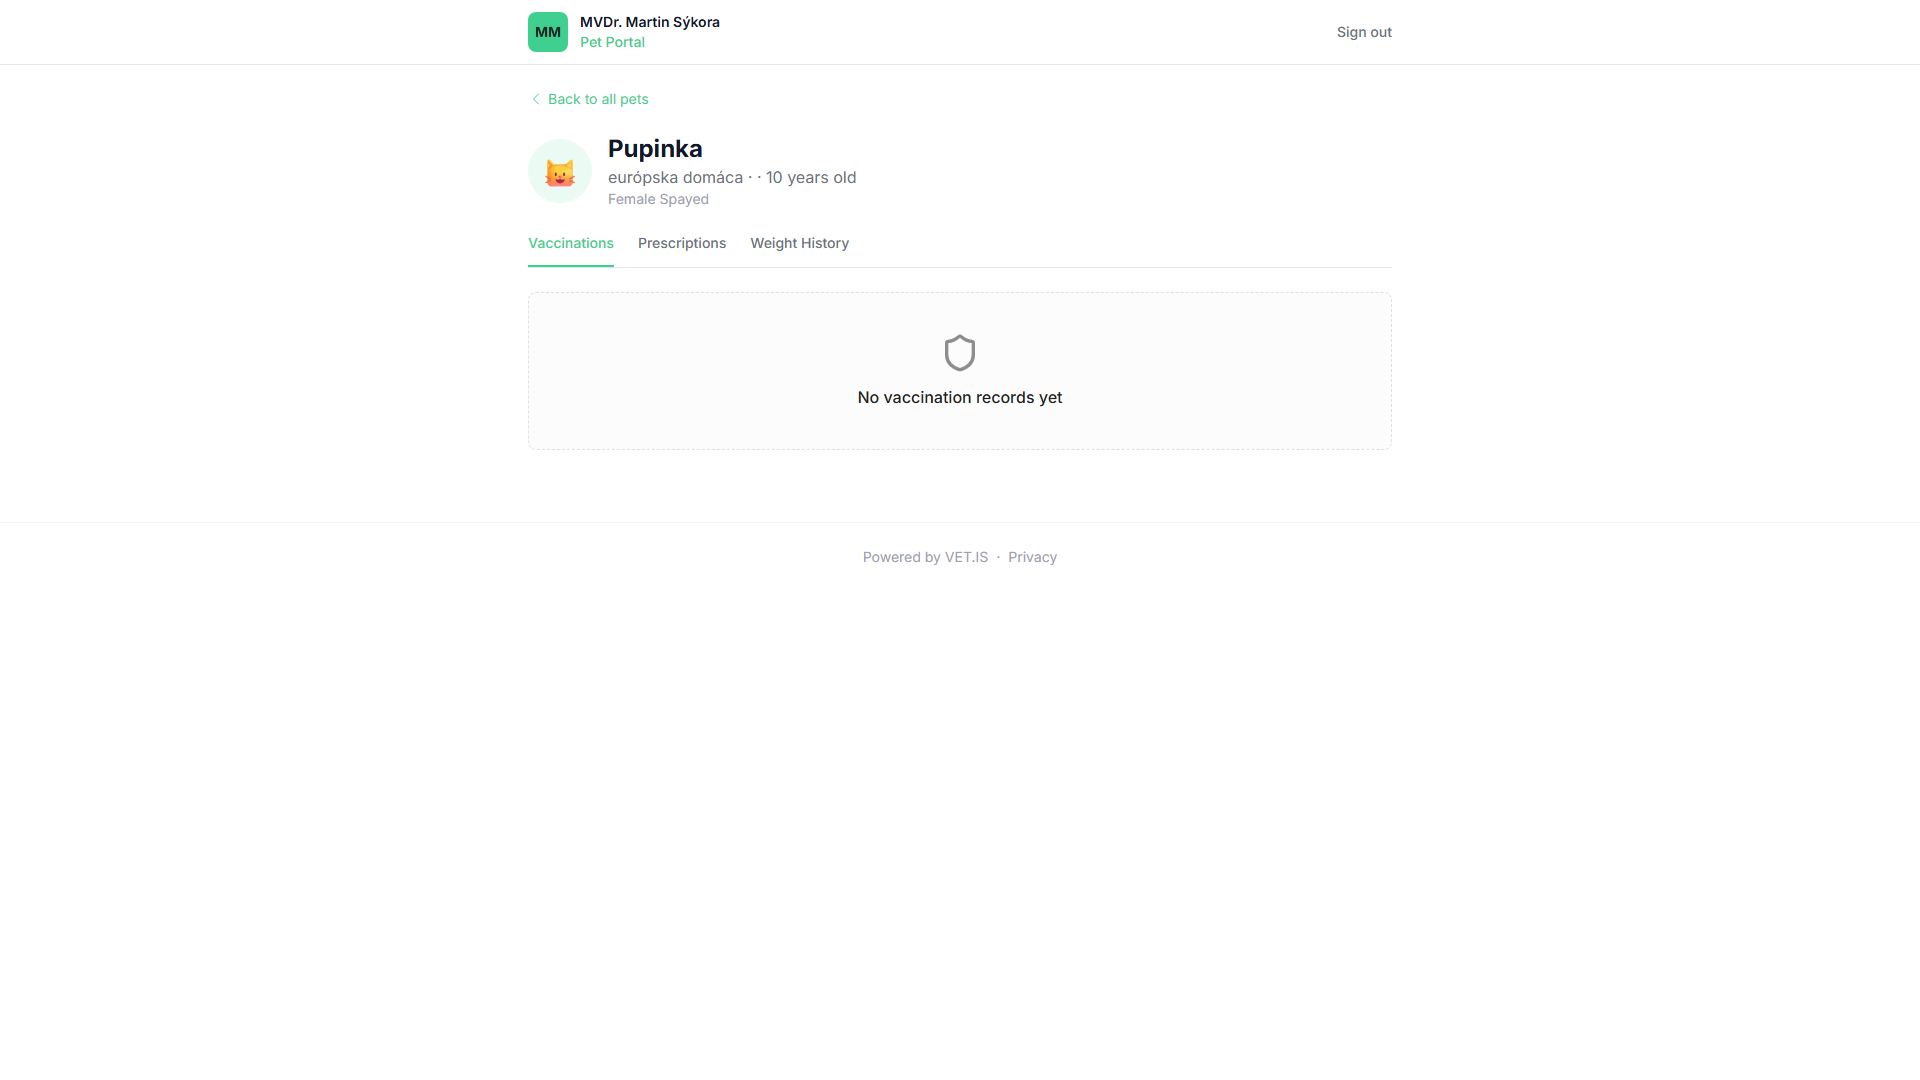
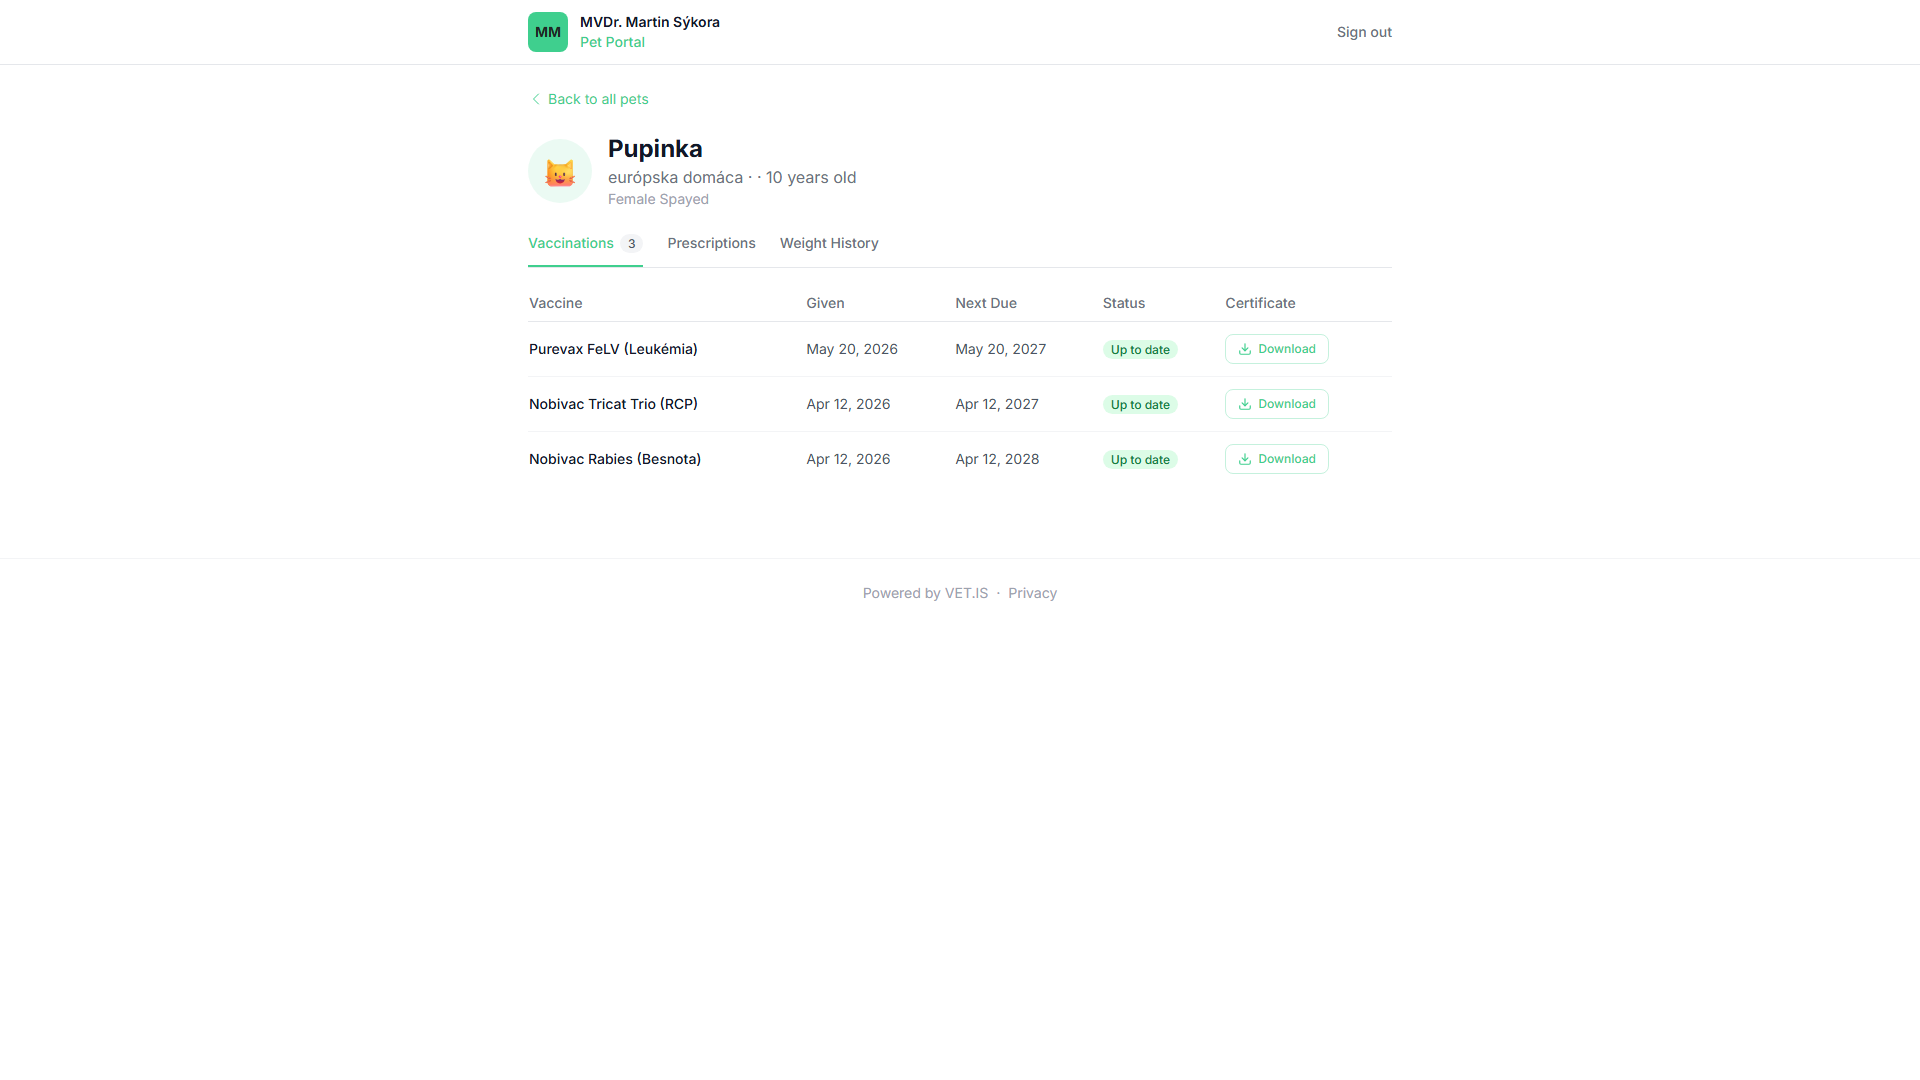
feat(docs): seed realistic vaccinations for Pupinka and recapture 09-02 client portal pet profile in Light Mode, sync to Outline

diff --git a/scripts/seed-pupinka-vaccinations.js b/scripts/seed-pupinka-vaccinations.js
@@ -1,0 +1,120 @@
+const path = require('path');
+const crypto = require('crypto');
+const postgres = require(path.resolve(__dirname, '../packages/db/node_modules/postgres'));
+const sql = postgres(process.env.DATABASE_URL || 'postgresql://openpims:openpims@127.0.0.1:5434/openvpm_ai');
+
+const PRACTICE_ID = '5c4ebbbc-90e1-457a-87a7-7895f560317d';
+const PUPINKA_ID = '5821edf5-e13d-4085-85c4-be6b95b29c34';
+const DR_SYKORA_ID = 'b1963bb2-ef34-470e-ab2d-a22a250984bb';
+
+async function seed() {
+  console.log('Seeding vaccinations for Pupinka...');
+
+  // Clean any old demo records for Pupinka
+  await sql`
+    DELETE FROM vaccination_records
+    WHERE patient_id = ${PUPINKA_ID};
+  `;
+
+  const vaccines = [
+    {
+      id: crypto.randomUUID(),
+      vaccine_name: 'Nobivac Tricat Trio (RCP)',
+      lot_number: 'A312B01',
+      manufacturer: 'MSD Animal Health',
+      product_name: 'Nobivac Tricat Trio inj. sicc.',
+      product_expiration_date: '2027-10-31',
+      administered_at: new Date('2026-04-12T10:15:00Z'),
+      next_due_date: '2027-04-12',
+      dose_type: 'booster',
+      licensed_duration_months: 12,
+      rabies_tag_number: null,
+    },
+    {
+      id: crypto.randomUUID(),
+      vaccine_name: 'Nobivac Rabies (Besnota)',
+      lot_number: 'B902A02',
+      manufacturer: 'MSD Animal Health',
+      product_name: 'Nobivac Rabies inj.',
+      product_expiration_date: '2028-06-30',
+      administered_at: new Date('2026-04-12T10:15:00Z'),
+      next_due_date: '2028-04-12',
+      dose_type: 'booster',
+      licensed_duration_months: 24,
+      rabies_tag_number: 'SK-BA-2026-4412',
+    },
+    {
+      id: crypto.randomUUID(),
+      vaccine_name: 'Purevax FeLV (Leukémia)',
+      lot_number: 'L489211',
+      manufacturer: 'Boehringer Ingelheim',
+      product_name: 'Purevax FeLV inj. susp.',
+      product_expiration_date: '2027-08-15',
+      administered_at: new Date('2026-05-20T14:30:00Z'),
+      next_due_date: '2027-05-20',
+      dose_type: 'booster',
+      licensed_duration_months: 12,
+      rabies_tag_number: null,
+    },
+  ];
+
+  for (const v of vaccines) {
+    await sql`
+      INSERT INTO vaccination_records (
+        id,
+        created_at,
+        updated_at,
+        practice_id,
+        patient_id,
+        vaccine_name,
+        lot_number,
+        manufacturer,
+        administered_by,
+        administered_at,
+        next_due_date,
+        product_name,
+        product_expiration_date,
+        dose_type,
+        licensed_duration_months,
+        rabies_tag_number
+      ) VALUES (
+        ${v.id},
+        NOW(),
+        NOW(),
+        ${PRACTICE_ID},
+        ${PUPINKA_ID},
+        ${v.vaccine_name},
+        ${v.lot_number},
+        ${v.manufacturer},
+        ${DR_SYKORA_ID},
+        ${v.administered_at},
+        ${v.next_due_date},
+        ${v.product_name},
+        ${v.product_expiration_date},
+        ${v.dose_type},
+        ${v.licensed_duration_months},
+        ${v.rabies_tag_number}
+      );
+    `;
+    console.log(`✓ Inserted vaccine: ${v.vaccine_name}`);
+  }
+
+  // Also check weights for Pupinka so weight tab has nice data
+  const weights = await sql`SELECT count(*) FROM patient_weights WHERE patient_id = ${PUPINKA_ID}`;
+  console.log(`Pupinka weights count: ${weights[0].count}`);
+  if (parseInt(weights[0].count, 10) === 0) {
+    await sql`
+      INSERT INTO patient_weights (id, created_at, updated_at, practice_id, patient_id, weight_kg, recorded_at, recorded_by)
+      VALUES 
+        (${crypto.randomUUID()}, NOW(), NOW(), ${PRACTICE_ID}, ${PUPINKA_ID}, 3.85, '2026-01-15T09:00:00Z', ${DR_SYKORA_ID}),
+        (${crypto.randomUUID()}, NOW(), NOW(), ${PRACTICE_ID}, ${PUPINKA_ID}, 4.10, '2026-04-12T10:15:00Z', ${DR_SYKORA_ID}),
+        (${crypto.randomUUID()}, NOW(), NOW(), ${PRACTICE_ID}, ${PUPINKA_ID}, 4.20, '2026-05-20T14:30:00Z', ${DR_SYKORA_ID});
+    `;
+    console.log('✓ Added 3 weight history points for Pupinka');
+  }
+
+  await sql.end();
+  console.log('Done!');
+}
+
+seed().catch(e => { console.error(e); process.exit(1); });

diff --git a/scripts/capture-portal-pupinka.js b/scripts/capture-portal-pupinka.js
@@ -1,0 +1,68 @@
+const { chromium } = require('@playwright/test');
+const path = require('path');
+
+const BASE_URL = process.env.PLAYWRIGHT_BASE_URL || 'http://localhost:3001';
+const PUPINKA_ID = '5821edf5-e13d-4085-85c4-be6b95b29c34';
+const OUT_FILE = path.resolve(__dirname, '../docs/screenshots/wiki/09-02-klientsky-portal-profil.png');
+
+async function main() {
+  const browser = await chromium.launch({ headless: true });
+  const context = await browser.newContext({
+    viewport: { width: 1920, height: 1080 },
+    colorScheme: 'light',
+  });
+  const page = await context.newPage();
+
+  await page.addInitScript(() => {
+    window.localStorage.setItem('openvpm_gui_mode', 'light');
+    window.localStorage.setItem('theme', 'light');
+    window.localStorage.setItem('openvpm.cookie-consent.v1', 'essential');
+  });
+
+  // Access portal with token
+  console.log('Navigating to portal access...');
+  await page.goto(`${BASE_URL}/portal/access/test-portal-token-sykora`, { waitUntil: 'domcontentloaded', timeout: 35000 });
+  await page.waitForTimeout(1000);
+
+  // Click continue if prompt appears
+  const continueBtn = page.locator('button:has-text("Continue securely"), button:has-text("Pokračovať")').first();
+  if (await continueBtn.isVisible({ timeout: 5000 }).catch(() => false)) {
+    await Promise.all([
+      page.waitForURL(url => url.pathname.includes('/portal') && !url.pathname.includes('/access'), { timeout: 25000 }),
+      continueBtn.click(),
+    ]);
+  }
+  await page.waitForTimeout(2000);
+
+  // Navigate to Pupinka profile
+  console.log(`Navigating to /portal/pets/${PUPINKA_ID}...`);
+  await page.goto(`${BASE_URL}/portal/pets/${PUPINKA_ID}`, { waitUntil: 'domcontentloaded', timeout: 35000 });
+  await page.waitForTimeout(3000);
+
+  // Dismiss any overlays/cookies
+  const dismissBtns = [
+    page.getByRole('button', { name: /essential only|allow analytics|prijať iba nevyhnutné/i }),
+    page.getByRole('button', { name: /hide for now|skryť zatiaľ|zatvoriť/i }),
+  ];
+  for (const btn of dismissBtns) {
+    if (await btn.first().isVisible().catch(() => false)) {
+      await btn.first().click().catch(() => {});
+    }
+  }
+
+  // Verify page text
+  const bodyText = await page.locator('body').innerText();
+  console.log('Page text snippet:\n' + bodyText.substring(0, 500));
+
+  const hasTricat = bodyText.includes('Nobivac Tricat Trio');
+  const hasRabies = bodyText.includes('Nobivac Rabies');
+  console.log('Contains Tricat?', hasTricat);
+  console.log('Contains Rabies?', hasRabies);
+
+  await page.screenshot({ path: OUT_FILE });
+  console.log('✓ Successfully saved 09-02-klientsky-portal-profil.png to:', OUT_FILE);
+
+  await browser.close();
+}
+
+main().catch(e => { console.error(e); process.exit(1); });
